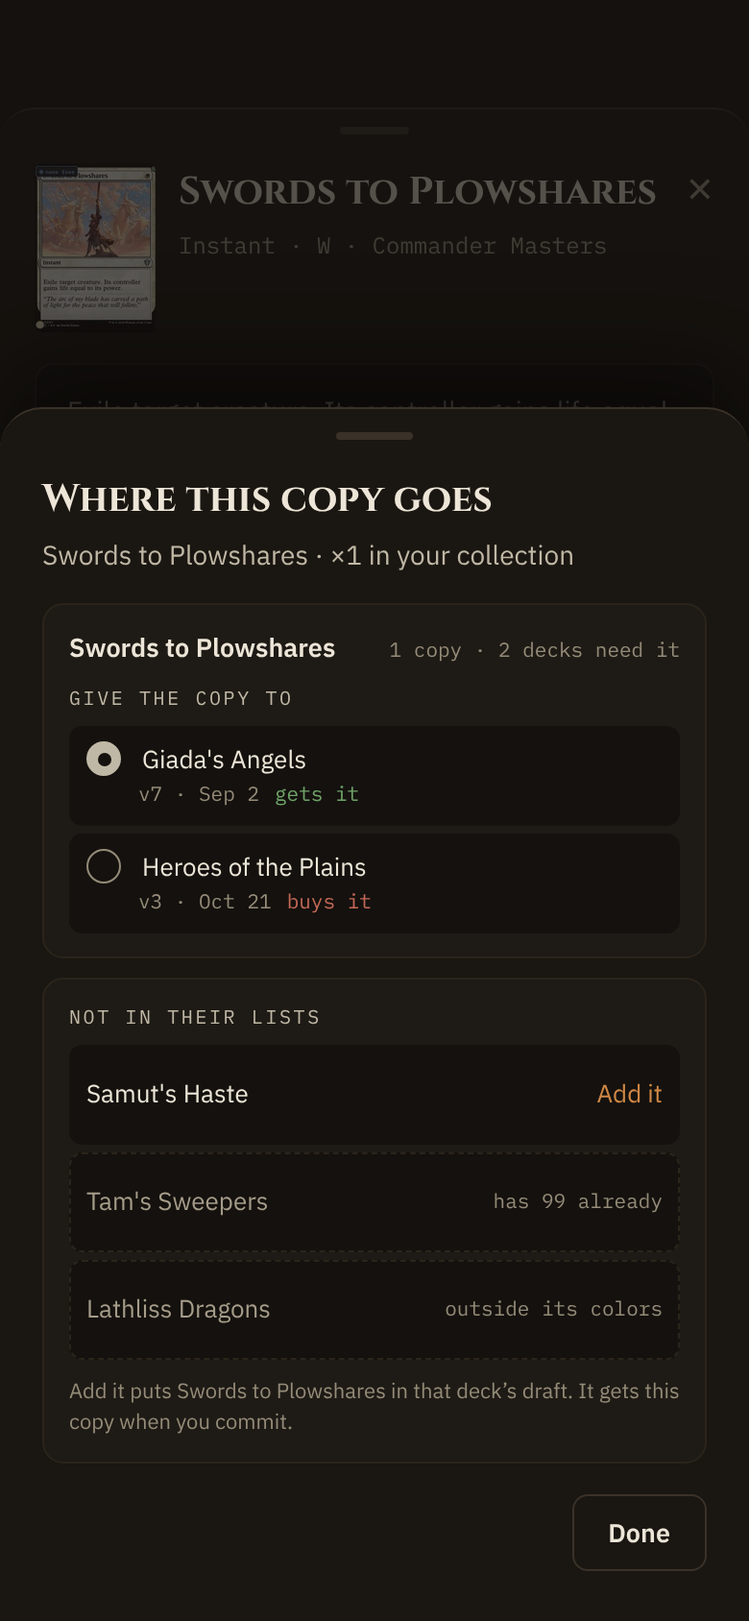
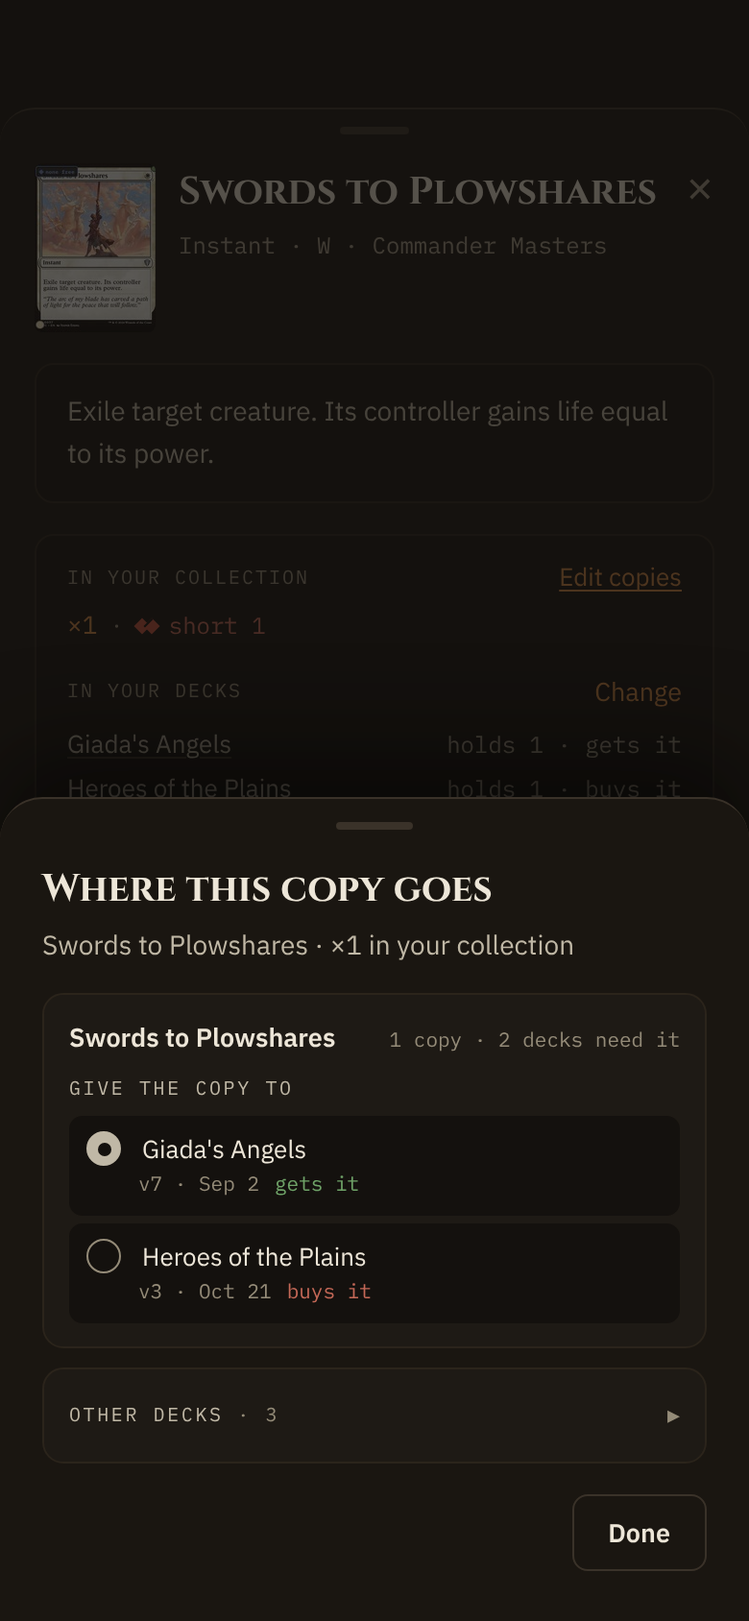
account-2 2026-11-18: move a copy later R1b (#2980): Other decks disclosure, compatible decks only, multi-deck/copy and many-deck frames
Claude-Session: https://claude.ai/code/session_01UvpaAYmrFDCvxrG3U4SH2K

diff --git a/account-2/design_handoff_the99_move_copy/scratch-gen/render.tsx b/account-2/design_handoff_the99_move_copy/scratch-gen/render.tsx
@@ -2,6 +2,7 @@
 import { renderToString } from "react-dom/server";
 import { writeFileSync, mkdirSync } from "node:fs";
 import type { ReactNode } from "react";
+import * as React from "react";
 import { NavRail, TabBar, MobileHeader } from "../src/components/shell/nav";
 import { AvailabilityDetail } from "../src/components/cards/card-detail-blocks";
 import { CopyChooserDialog } from "../src/components/decks/copy-chooser-dialog";
@@ -19,24 +20,38 @@ const card: any = {
   availability: { owned: 1, hard: 2, soft: 0, free: -1, claims: [claim(G, D("2026-09-02"), 7), claim(H, D("2026-10-21"), 3)] },
   draftWants: [],
 };
-const contested = (pick: string | null): any => pick === "ds" ? ({
-  oracleId: "o-swords", cardName: NAME, arrived: 1, fromImport: false, ownedBefore: 1, owned: 1,
-  claimants: [
-    { deckId: G.id, deckName: G.name, quantity: 1, commanderCopies: 0, granted: 0, since: D("2026-09-02"), versionNumber: 7, allocated: 0 },
-    { deckId: H.id, deckName: H.name, quantity: 1, commanderCopies: 0, granted: 0, since: D("2026-10-21"), versionNumber: 3, allocated: 0 },
-  ],
-}) : ({
-  oracleId: "o-swords", cardName: NAME, arrived: 1, fromImport: false, ownedBefore: 1, owned: 1,
-  claimants: [
-    { deckId: G.id, deckName: G.name, quantity: 1, commanderCopies: 0, granted: 0, since: D("2026-09-02"), versionNumber: 7, allocated: pick === H.id ? 0 : 1 },
-    { deckId: H.id, deckName: H.name, quantity: 1, commanderCopies: 0, granted: pick === H.id ? 1 : 0, grantedAt: pick ? NOW : null, since: D("2026-10-21"), versionNumber: 3, allocated: pick === H.id ? 1 : 0 },
-  ],
+// claimants in commit order; alloc = deck ids that get a copy.
+const DK = { g: G, h: H, a: { id: "da", name: "Ajani's Pride" } } as const;
+const CL: Record<string, [number, number]> = { dg: [D("2026-09-02"), 7], dh: [D("2026-10-21"), 3], da: [D("2026-11-03"), 2] };
+const contested = (owned: number, ids: string[], alloc: string[], picked: string[] = []): any => ({
+  oracleId: "o-swords", cardName: NAME, arrived: owned, fromImport: false, ownedBefore: owned, owned,
+  claimants: ids.map((id) => { const d = Object.values(DK).find((x) => x.id === id)!; return {
+    deckId: id, deckName: d.name, quantity: 1, commanderCopies: 0, granted: picked.includes(id) ? 1 : 0, grantedAt: picked.includes(id) ? NOW : null,
+    since: CL[id][0], versionNumber: CL[id][1], allocated: alloc.includes(id) ? 1 : 0 }; }),
 });
-const others = (added: boolean): OtherDeck[] => [
-  { id: "ds", name: "Samut's Haste", state: added ? "added" : "can" },
-  { id: "dt", name: "Tam's Sweepers", state: "full" },
-  { id: "dl", name: "Lathliss Dragons", state: "colors" },
+const OTHER = (pick?: string): OtherDeck[] => [
+  { id: "ds", name: "Samut's Haste", cards: 96 }, { id: "dt", name: "Tam's Sweepers", cards: 99 }, { id: "dq", name: "Quintorius Digs", cards: 84 },
+].map((d) => ({ ...d, picked: d.id === pick }));
+const MANY: OtherDeck[] = ["Samut's Haste:96", "Tam's Sweepers:99", "Quintorius Digs:84", "Sai's Thopters:100", "Zada Copies:91", "Killian Ink:97",
+  "Heliod Lifegain:99", "Kenrith Group Hug:88", "Atraxa Counters:100", "Ghired Tokens:95", "Rhys Elves:92", "Winota Knights:98"]
+  .map((x, i) => { const [name, n] = x.split(":"); return { id: "m" + i, name, cards: +n }; });
+const chooser = (c: any, other: React.ReactNode, sub = `${NAME} · ×${c.owned} in your collection`, extra = 0) => (
+  <CopyChooserDialog extraGiven={extra} card={c} cardName={NAME} thisDeckId="" sub={sub} onCard={() => {}} onClose={() => {}}>{other}</CopyChooserDialog>
+);
+const od = (decks: OtherDeck[], open: boolean, copies = 1, find?: string) => <OtherDecks decks={decks} cardName={NAME} open={open} copies={copies} find={find} hiddenColors={2} />;
+const entry = (id: string, iso: string, first: string, went: any, kind: any = "add"): any => ({
+  id, seq: 1, createdAt: new Date(iso), kind, source: null, raised: 1, lowered: 0, rowCount: 1, copiesUp: 1, copiesDown: 0, removesOnly: false,
+  revertsId: null, revertedBy: null, revertsVisible: true, revertedByVisible: true, uploadFilename: null, firstName: first,
+  shoppingDeck: null, shoppingCart: false, preconName: null, addedFromDeck: null, cartDecks: null, wentTo: went,
+});
+const went = (d: { id: string; name: string }, proposal: any) => ({ decks: { named: [d], more: 0, gone: 0 }, soft: false, proposal });
+const ENTRIES = (moved: boolean) => [
+  entry("e1", "2026-11-17T22:10:00Z", "Lightning Greaves", went({ id: "dl", name: "Lathliss Dragons" }, {})),
+  entry("e2", "2026-11-17T19:42:00Z", NAME, went(G, moved ? { now: H.name, change: true } : { change: true })),
+  entry("e3", "2026-11-16T16:05:00Z", "Arcane Signet", went({ id: "dt", name: "Tam's Sweepers" }, {})),
 ];
+const history = (moved: boolean) => <HistoryList initial={ENTRIES(moved)} nextBefore={null} nowMs={NOW} reachesBack={new Date(NOW - 90 * 864e5)} reachesBackLabel="Aug 20" shipLabel="Aug 1" />;
+const two = ["dg", "dh"], three = ["dg", "dh", "da"];
 
 type Dev = "phone" | "desk";
 const frames: { id: string; dev: Dev; vh?: number }[] = [];
@@ -81,32 +96,23 @@ function detailsSheet(cardProp: any) {
     </div>
   );
 }
-const chooser = (pick: string | null, added: boolean) => (
-  <CopyChooserDialog card={contested(pick)} cardName={NAME} thisDeckId="" sub={`${NAME} · ×1 in your collection`} onCard={() => {}} onClose={() => {}}>
-    <OtherDecks decks={others(added)} cardName={NAME} />
-  </CopyChooserDialog>
-);
-const entry = (id: string, iso: string, first: string, went: any, kind: any = "add"): any => ({
-  id, seq: 1, createdAt: new Date(iso), kind, source: null, raised: 1, lowered: 0, rowCount: 1, copiesUp: 1, copiesDown: 0, removesOnly: false,
-  revertsId: null, revertedBy: null, revertsVisible: true, revertedByVisible: true, uploadFilename: null, firstName: first,
-  shoppingDeck: null, shoppingCart: false, preconName: null, addedFromDeck: null, cartDecks: null, wentTo: went,
-});
-const went = (d: { id: string; name: string }, proposal: any) => ({ decks: { named: [d], more: 0, gone: 0 }, soft: false, proposal });
-const ENTRIES = (moved: boolean) => [
-  entry("e1", "2026-11-17T22:10:00Z", "Lightning Greaves", went({ id: "dl", name: "Lathliss Dragons" }, {})),
-  entry("e2", "2026-11-17T19:42:00Z", NAME, went(G, moved ? { now: H.name, change: true } : { change: true })),
-  entry("e3", "2026-11-16T16:05:00Z", "Arcane Signet", went({ id: "dt", name: "Tam's Sweepers" }, {})),
-];
-const history = (moved: boolean) => <HistoryList initial={ENTRIES(moved)} nextBefore={null} nowMs={NOW} reachesBack={new Date(NOW - 90 * 864e5)} reachesBackLabel="Aug 20" shipLabel="Aug 1" />;
 
+const sheet = (x: React.ReactNode) => <>{detailsSheet(card)}{x}</>;
 emit("C1-phone", "phone", detailsSheet(card), 844);
-emit("C2-phone", "phone", <>{detailsSheet(card)}{chooser(null, false)}</>, 844);
-emit("C3-phone", "phone", <>{detailsSheet(card)}{chooser(H.id, false)}</>, 844);
-emit("C4-phone", "phone", <>{detailsSheet(card)}{chooser("ds", true)}</>, 844);
+emit("C2-phone", "phone", sheet(chooser(contested(1, two, ["dg"]), od(OTHER(), false))), 844);
+emit("C3-phone", "phone", sheet(chooser(contested(1, two, ["dh"], ["dh"]), od(OTHER(), false))), 844);
+emit("O1-phone", "phone", sheet(chooser(contested(1, two, ["dg"]), od(OTHER(), true))), 900);
+emit("O2-phone", "phone", sheet(chooser(contested(1, two, []), od(OTHER("dt"), true))), 900);
+emit("O3-phone", "phone", sheet(chooser(contested(1, two, []), od(OTHER("dt"), false))), 844);
+emit("M1-phone", "phone", sheet(chooser(contested(1, three, ["dg"]), od(OTHER(), false))), 844);
+emit("M2-phone", "phone", sheet(chooser(contested(2, three, ["dg", "da"], ["da"]), od(OTHER(), false))), 844);
+emit("M3-phone", "phone", sheet(chooser(contested(2, three, ["dg"]), od(OTHER("ds"), true, 2), undefined, 1)), 960);
+emit("F1-phone", "phone", sheet(chooser(contested(1, two, ["dg"]), od(MANY, true))), 960);
+emit("F2-phone", "phone", sheet(chooser(contested(1, two, ["dg"]), od(MANY, true, 1, "he"))), 900);
 emit("H1-phone", "phone", shell("/collection", history(false)), 760);
-emit("H2-phone", "phone", <>{shell("/collection", history(false))}{chooser(null, false)}</>, 844);
+emit("H2-phone", "phone", <>{shell("/collection", history(false))}{chooser(contested(1, two, ["dg"]), od(OTHER(), false))}</>, 844);
 emit("H3-phone", "phone", shell("/collection", history(true)), 760);
-emit("H1-desk", "desk", <>{shell("/collection", history(false))}{chooser(null, false)}</>, 860);
+emit("H1-desk", "desk", <>{shell("/collection", history(false))}{chooser(contested(1, two, ["dg"]), od(OTHER(), true))}</>, 900);
 emit("H3-desk", "desk", shell("/collection", history(true)), 640);
 writeFileSync("dz/frames.json", JSON.stringify(frames));
 console.log("ok", frames.length);

diff --git a/account-2/design_handoff_the99_move_copy/Main.dc.html b/account-2/design_handoff_the99_move_copy/Main.dc.html
@@ -31,23 +31,26 @@ p{margin:0}
 <p class="lab"><b>Calls</b></p>
 <div class="it"><span class="n">1</span><p><b>Card details: “Change” at the end of the In your decks heading</b> (C1), only when you own the card and no copy is free, so some deck is buying it or every copy is held. With a copy to spare there is nothing to move, so no Change. It opens the shipped chooser over card details: sheet on a phone, 520 modal on desktop.</p></div>
 <div class="it"><span class="n">2</span><p><b>The chooser is the shipped one</b>, title “Where this copy goes”, sub “Swords to Plowshares · ×1 in your collection” (C2). Deck names are the control, gets it / buys it, tap the pick again to go back to first committed (C3). It writes the reservation (assignCopyFor) and changes no deck list or version; every claimant’s marks and buy state update.</p></div>
-<div class="it"><span class="n">3</span><p><b>Decks that don’t list it, under “Not in their lists”</b>. One that can take it offers <b>Add it</b>: the card goes into that deck’s draft and the pick is kept for its commit (C4, Undo in the foot line). One that can’t says why in its row, never hidden: <b>has 99 already</b>, <b>outside its colors</b>, <b>its commander</b>.</p></div>
+<div class="it"><span class="n">3</span><p><b>R1b · “Other decks · N”, closed by default</b> under the decks that list it (O). One row that opens in place, however many decks. Open, it lists <b>only decks whose colors allow the card</b>, in the same rows as above: the mark, the deck, its card count, <b>adds it</b>. A deck at 99 or more is still offered and says so (“99 cards · makes 100”). Decks outside its colors are left out, with one faint line saying so.</p></div>
+<div class="it"><span class="n">3b</span><p><b>One choice across both groups.</b> Picking another deck works like picking above: accent row, “adds it · gets it”, and the decks above flip to buys it. The card goes into that deck’s draft and gets the copy when you commit. Tap again to undo. Closed, the header names the pick (O3). With more than 6 decks, a <b>Find a deck</b> field tops the open list (F1, F2).</p></div>
+<div class="it"><span class="n">3c</span><p><b>More decks than copies</b> (M) is the shipped row’s own case: one copy uses round marks, two copies use square marks with “2 of 2 given”. A pick in Other decks counts toward that cap (M3).</p></div>
 <div class="it"><span class="n">4</span><p><b>History: “Change” at the end of an add’s “Went to …” line</b>, same rule as call 1, opening the same chooser (H1, H2). The record is never rewritten: after a move the line reads “Went to Giada’s Angels. Now Heroes of the Plains has it.” (H3). In an opened multi-card entry, each row’s line gets its own Change (not drawn).</p></div>
 <div class="it"><span class="n">5</span><p><b>Matches the removal chooser</b> (approved R1): the same row grammar (round mark, neutral default, accent pick, Back to first committed) and the same rule that a deck that can’t do something says why in its row.</p></div>
 </div>
 <div style="display: flex; flex-direction: column; gap: 24px">
 <div class="box">
-<p class="lab"><b>For Hugh</b> · three questions</p>
-<div class="it"><span class="n">Q1</span><p><b>Decks that don’t list the card?</b> <b>Recommended: Add it</b>, into the draft with the pick kept for commit (call 3). Other option: name them with “not in its list” and no action; you add it from the deck, then come back.</p></div>
-<div class="it"><span class="n">Q2</span><p><b>Decks outside its colors?</b> <b>Recommended:</b> a row each up to two, then one faint line “4 more decks are outside its colors.” Other option: a row each always.</p></div>
-<div class="it"><span class="n">Q3</span><p><b>Your Fabled Passage:</b> did Mutant Menace already list it when you added it? If yes, calls 1 and 4 fix it. If no, call 3 does.</p></div>
+<p class="lab"><b>R1b</b> · Hugh’s feedback, 2026-11-17</p>
+<div class="it"><span class="n">B1</span><p>Top section kept. “Not in their lists” is now <b>Other decks</b>, a disclosure, in the top section’s row grammar.</p></div>
+<div class="it"><span class="n">B2</span><p><b>Only compatible decks are shown.</b> Decks outside its colors are never an option. Decks at 99 or over stay offered.</p></div>
+<div class="it"><span class="n">B3</span><p>The disclosure holds up past 1 card and 2 decks: 3 decks with 1 copy (M1), 3 decks with 2 copies (M2, M3), 12 other decks with Find (F1, F2).</p></div>
+<div class="it"><span class="n">Q</span><p><b>One question:</b> did Mutant Menace already list Fabled Passage when you added it? It doesn’t change the design, only which door fixes your copy.</p></div>
 </div>
 <div class="box">
 <p class="lab"><b>Gaps</b> · for the build</p>
-<div class="it"><span class="n">G1</span><p>Card details needs the chooser’s card off a receipt (<b>loadContestedCard</b> has the shape) plus the player’s other committed decks with their reason (color identity, 99 count, commander). New read.</p></div>
-<div class="it"><span class="n">G2</span><p><b>A kept pick for a draft add</b> has nowhere to live today (assignments need a committed version). A pending pick applied at commit, or drop the promise if Q1 goes the other way.</p></div>
+<div class="it"><span class="n">G1</span><p>Card details needs the chooser’s card off a receipt (<b>loadContestedCard</b> has the shape) plus the player’s other committed decks whose color identity allows the card, with each deck’s card count. New read.</p></div>
+<div class="it"><span class="n">G2</span><p><b>A kept pick for a draft add</b> has nowhere to live today (assignments need a committed version). It needs a pending pick applied at commit. One choice spans both groups, and an Other decks pick counts toward the row’s cap.</p></div>
 <div class="it"><span class="n">G3</span><p>History’s “Went to” is frozen at arrival; “Now X has it.” and Change need a live read per entry, only for entries whose card still has a choice.</p></div>
-<div class="it"><span class="n">G4</span><p>All new strings are DRAFT for /copy-review: Change’s sub, Not in their lists, Add it, in the draft · gets it on commit, has 99 already, outside its colors, its commander, the foot lines, Now X has it.</p></div>
+<div class="it"><span class="n">G4</span><p>All new strings are DRAFT for /copy-review: Change’s sub, Other decks · N, N cards · makes N+1, adds it, adds it · gets it, Find a deck, the two foot lines, Now X has it. With 2+ copies the shipped title “Where this copy goes” wants a plural.</p></div>
 <div class="it"><span class="n">G5</span><p>Amends the card assignments handoff, which limits the chooser to /changes and receipts.</p></div>
 </div>
 </div>

diff --git a/account-2/design_handoff_the99_move_copy/Details.dc.html b/account-2/design_handoff_the99_move_copy/Details.dc.html
@@ -20,21 +20,20 @@ p{margin:0}
 .shot{display:block;width:100%;border-radius:14px;border:1px solid #3A3229}
 </style>
 </helmet>
-<div style="width: 1882px; min-height: 1180px; box-sizing: border-box; padding: 48px 56px 64px; background: #0D0B09; font-family: 'IBM Plex Sans', sans-serif; color: #EDE6D8; display: flex; flex-direction: column; gap: 30px">
-<div style="display: flex; flex-direction: column; gap: 9px; max-width: 1300px">
+<div style="width: 1362px; min-height: 1180px; box-sizing: border-box; padding: 48px 56px 64px; background: #0D0B09; font-family: 'IBM Plex Sans', sans-serif; color: #EDE6D8; display: flex; flex-direction: column; gap: 30px">
+<div style="display: flex; flex-direction: column; gap: 9px; max-width: 1200px">
 <p class="lab"><b>C</b> · card details · 390</p>
 <h2 style="margin: 0; font: 700 30px 'Cinzel', serif">Change where a copy goes, from the card</h2>
-<p style="font-size: 14px; line-height: 1.6; color: #C0B8A6">The sheet pulled full, scrolled to the receipt. The card image and text above are the shipped sheet’s; the In your decks block is the shipped AvailabilityDetail with Change added.</p>
+<p style="font-size: 14px; line-height: 1.6; color: #C0B8A6">The sheet pulled full, scrolled to the receipt. The In your decks block is the shipped AvailabilityDetail with Change added; the chooser is the shipped sheet.</p>
 </div>
 <div style="display: flex; gap: 40px; align-items: flex-start">
 <div class="ph"><p class="lab"><b>C1</b> · the door</p><img class="shot" src="art/C1-phone.png" alt="Card details, In your decks with Change"><p class="cap"><b>Change</b> sits at the end of the In your decks heading, only while no copy is free. Deck names stay links to the deck.</p></div>
-<div class="ph"><p class="lab"><b>C2</b> · the chooser</p><img class="shot" src="art/C2-phone.png" alt="Where this copy goes, default"><p class="cap">The shipped chooser sheet over card details. The first committed deck gets it by default. Below, the decks that <b>don’t list it</b>, each with Add it or the reason it can’t.</p></div>
-<div class="ph"><p class="lab"><b>C3</b> · picked</p><img class="shot" src="art/C3-phone.png" alt="Heroes of the Plains picked"><p class="cap">A tap gives the copy to Heroes of the Plains: accent row, <b>gets it</b> and <b>buys it</b> swap at once. Tap it again to go back. No list or version changes.</p></div>
-<div class="ph"><p class="lab"><b>C4</b> · added to another deck</p><img class="shot" src="art/C4-phone.png" alt="Added to Samut's Haste"><p class="cap"><b>Add it</b> puts the card in Samut’s Haste’s draft and keeps the pick for its commit, so both listing decks now buy it. <b>Undo</b> in the foot line (Q1).</p></div>
+<div class="ph"><p class="lab"><b>C2</b> · the chooser</p><img class="shot" src="art/C2-phone.png" alt="Where this copy goes, default"><p class="cap">The shipped chooser. The first committed deck gets it by default. <b>Other decks · 3</b> waits closed underneath.</p></div>
+<div class="ph"><p class="lab"><b>C3</b> · picked</p><img class="shot" src="art/C3-phone.png" alt="Heroes of the Plains picked"><p class="cap">A tap gives the copy to Heroes of the Plains: accent row, <b>gets it</b> and <b>buys it</b> swap at once. Tap again to go back. No list or version changes.</p></div>
 </div>
 </div>
 </x-dc>
-<script type="text/x-dc" data-dc-script data-props='{"$preview":{"width":1882,"height":1180}}'>
+<script type="text/x-dc" data-dc-script data-props='{"$preview":{"width":1362,"height":1180}}'>
 class Component extends DCLogic {
 renderVals() { return {}; }
 }

diff --git a/account-2/design_handoff_the99_move_copy/Other.dc.html b/account-2/design_handoff_the99_move_copy/Other.dc.html
@@ -1,0 +1,44 @@
+<!doctype html>
+<html lang="en">
+<head>
+<meta charset="utf-8">
+<title>Other decks</title>
+<script src="./support.js"></script>
+</head>
+<body>
+<x-dc>
+<helmet>
+<link href="https://fonts.googleapis.com/css2?family=IBM+Plex+Sans:wght@400;500;600;700&amp;family=IBM+Plex+Mono:wght@400;500;600&amp;family=Cinzel:wght@600;700;800&amp;display=swap" rel="stylesheet">
+<style>
+body{margin:0;background:#0D0B09}
+p{margin:0}
+.lab{font:500 10.5px 'IBM Plex Mono',monospace;letter-spacing:.12em;text-transform:uppercase;color:#948B78}
+.lab b{color:#CF8745;font-weight:600}
+.cap{font-size:13px;line-height:1.55;color:#A59C89}
+.cap b{color:#EDE6D8;font-weight:600}
+.ph{display:flex;flex-direction:column;gap:10px;width:390px;flex:none}
+.shot{display:block;width:100%;border-radius:14px;border:1px solid #3A3229}
+</style>
+</helmet>
+<div style="width: 2222px; min-height: 1300px; box-sizing: border-box; padding: 48px 56px 64px; background: #0D0B09; font-family: 'IBM Plex Sans', sans-serif; color: #EDE6D8; display: flex; flex-direction: column; gap: 30px">
+<div style="display: flex; flex-direction: column; gap: 9px; max-width: 1300px">
+<p class="lab"><b>O</b> · other decks · 390</p>
+<h2 style="margin: 0; font: 700 30px 'Cinzel', serif">Other decks: compatible only, picked like the decks above</h2>
+<p style="font-size: 14px; line-height: 1.6; color: #C0B8A6">One disclosure row under the shipped chooser row. Open, its rows are the same options as above. Decks outside the card’s colors are never listed; decks at 99 or more are.</p>
+</div>
+<div style="display: flex; gap: 40px; align-items: flex-start">
+<div class="ph"><p class="lab"><b>O1</b> · open</p><img class="shot" src="art/O1-phone.png" alt="Other decks open"><p class="cap">Each deck shows its card count and <b>adds it</b>. Tam’s Sweepers at 99 stays an option and says <b>makes 100</b>. The foot line says what a pick does and that decks outside its colors aren’t listed.</p></div>
+<div class="ph"><p class="lab"><b>O2</b> · picked</p><img class="shot" src="art/O2-phone.png" alt="Tam's Sweepers picked"><p class="cap">Same tap as above: accent row, <b>adds it · gets it</b>, and both listing decks now buy it. It goes into the draft and gets the copy on commit. Tap again to undo.</p></div>
+<div class="ph"><p class="lab"><b>O3</b> · closed with a pick</p><img class="shot" src="art/O3-phone.png" alt="Other decks closed, naming the pick"><p class="cap">Closed again, the header names the pick in accent, so the choice is never hidden.</p></div>
+<div class="ph"><p class="lab"><b>F1</b> · many decks</p><img class="shot" src="art/F1-phone.png" alt="Twelve other decks with Find"><p class="cap">Past 6 decks, a <b>Find a deck</b> field (the shipped SearchField) tops the list. The list scrolls inside the chooser; the title and Done stay put.</p></div>
+<div class="ph"><p class="lab"><b>F2</b> · found</p><img class="shot" src="art/F2-phone.png" alt="Filtered to Heliod Lifegain"><p class="cap">Typing narrows it by name. A pick stays picked while it is filtered out.</p></div>
+</div>
+</div>
+</x-dc>
+<script type="text/x-dc" data-dc-script data-props='{"$preview":{"width":2222,"height":1300}}'>
+class Component extends DCLogic {
+renderVals() { return {}; }
+}
+</script>
+</body>
+</html>

diff --git a/account-2/design_handoff_the99_move_copy/Scenarios.dc.html b/account-2/design_handoff_the99_move_copy/Scenarios.dc.html
@@ -1,0 +1,42 @@
+<!doctype html>
+<html lang="en">
+<head>
+<meta charset="utf-8">
+<title>More decks than copies</title>
+<script src="./support.js"></script>
+</head>
+<body>
+<x-dc>
+<helmet>
+<link href="https://fonts.googleapis.com/css2?family=IBM+Plex+Sans:wght@400;500;600;700&amp;family=IBM+Plex+Mono:wght@400;500;600&amp;family=Cinzel:wght@600;700;800&amp;display=swap" rel="stylesheet">
+<style>
+body{margin:0;background:#0D0B09}
+p{margin:0}
+.lab{font:500 10.5px 'IBM Plex Mono',monospace;letter-spacing:.12em;text-transform:uppercase;color:#948B78}
+.lab b{color:#CF8745;font-weight:600}
+.cap{font-size:13px;line-height:1.55;color:#A59C89}
+.cap b{color:#EDE6D8;font-weight:600}
+.ph{display:flex;flex-direction:column;gap:10px;width:390px;flex:none}
+.shot{display:block;width:100%;border-radius:14px;border:1px solid #3A3229}
+</style>
+</helmet>
+<div style="width: 1362px; min-height: 1180px; box-sizing: border-box; padding: 48px 56px 64px; background: #0D0B09; font-family: 'IBM Plex Sans', sans-serif; color: #EDE6D8; display: flex; flex-direction: column; gap: 30px">
+<div style="display: flex; flex-direction: column; gap: 9px; max-width: 1200px">
+<p class="lab"><b>M</b> · more decks than copies · 390</p>
+<h2 style="margin: 0; font: 700 30px 'Cinzel', serif">Three decks, one or two copies</h2>
+<p style="font-size: 14px; line-height: 1.6; color: #C0B8A6">The top section is the shipped row, which already handles any number of decks and copies. Other decks joins the same count.</p>
+</div>
+<div style="display: flex; gap: 40px; align-items: flex-start">
+<div class="ph"><p class="lab"><b>M1</b> · 3 decks, 1 copy</p><img class="shot" src="art/M1-phone.png" alt="Three decks, one copy"><p class="cap">Round marks: one copy, one pick. The first committed deck gets it; the other two buy it.</p></div>
+<div class="ph"><p class="lab"><b>M2</b> · 3 decks, 2 copies</p><img class="shot" src="art/M2-phone.png" alt="Three decks, two copies"><p class="cap">Square marks and <b>2 of 2 given</b>. Here Ajani’s Pride was picked over Heroes of the Plains. When both are given, a third tap gets the shipped “untick one first” reason.</p></div>
+<div class="ph"><p class="lab"><b>M3</b> · one goes to another deck</p><img class="shot" src="art/M3-phone.png" alt="Two copies, one to Samut's Haste"><p class="cap">A pick in Other decks <b>counts toward the cap</b>: Giada’s Angels and Samut’s Haste, 2 of 2 given.</p></div>
+</div>
+</div>
+</x-dc>
+<script type="text/x-dc" data-dc-script data-props='{"$preview":{"width":1362,"height":1180}}'>
+class Component extends DCLogic {
+renderVals() { return {}; }
+}
+</script>
+</body>
+</html>

diff --git a/account-2/design_handoff_the99_move_copy/Desktop.dc.html b/account-2/design_handoff_the99_move_copy/Desktop.dc.html
@@ -19,17 +19,17 @@ p{margin:0}
 .shot{display:block;width:1100px;border-radius:14px;border:1px solid #3A3229}
 </style>
 </helmet>
-<div style="width: 1452px; min-height: 1640px; box-sizing: border-box; padding: 48px 56px 64px; background: #0D0B09; font-family: 'IBM Plex Sans', sans-serif; color: #EDE6D8; display: flex; flex-direction: column; gap: 26px">
+<div style="width: 1452px; min-height: 1720px; box-sizing: border-box; padding: 48px 56px 64px; background: #0D0B09; font-family: 'IBM Plex Sans', sans-serif; color: #EDE6D8; display: flex; flex-direction: column; gap: 26px">
 <div style="display: flex; flex-direction: column; gap: 9px; max-width: 1200px">
 <p class="lab"><b>D</b> · 1280</p>
 <h2 style="margin: 0; font: 700 30px 'Cinzel', serif">The same chooser, as the shipped 520 modal</h2>
 <p style="font-size: 14px; line-height: 1.6; color: #C0B8A6">Card details on desktop opens the same modal over its own dialog. Rows go one line wide, as they ship.</p>
 </div>
-<div style="display: flex; flex-direction: column; gap: 10px"><p class="lab"><b>D1</b> · History, chooser open</p><img class="shot" src="art/H1-desk.png" alt="Desktop History with the chooser modal open"><p class="cap">The shipped modal from History’s Change. <b>Not in their lists</b> sits under the shipped row in the same scroller; Done stays in view.</p></div>
+<div style="display: flex; flex-direction: column; gap: 10px"><p class="lab"><b>D1</b> · History, chooser open</p><img class="shot" src="art/H1-desk.png" alt="Desktop History with the chooser modal open"><p class="cap">The shipped modal from History’s Change. <b>Other decks</b>, open here, sits under the shipped row in the same scroller; Done stays in view.</p></div>
 <div style="display: flex; flex-direction: column; gap: 10px"><p class="lab"><b>D2</b> · History, after a move</p><img class="shot" src="art/H3-desk.png" alt="Desktop History after a move"><p class="cap">Change at the line’s end, under Revert. The record line keeps “Went to Giada’s Angels.” and says who has it now.</p></div>
 </div>
 </x-dc>
-<script type="text/x-dc" data-dc-script data-props='{"$preview":{"width":1452,"height":1640}}'>
+<script type="text/x-dc" data-dc-script data-props='{"$preview":{"width":1452,"height":1720}}'>
 class Component extends DCLogic {
 renderVals() { return {}; }
 }

diff --git a/account-2/design_handoff_the99_move_copy/README.md b/account-2/design_handoff_the99_move_copy/README.md
@@ -1,7 +1,7 @@
-# The 99 · Move a copy to another deck later (R1, DRAFT)
+# The 99 · Move a copy to another deck later (R1b, DRAFT)
 
 Issue: featherweight-design/the-99 #2980. Account 2, 2026-11-18. Status: awaiting Hugh's review. No handoff PR until approved.
-Canvas: https://claude.ai/artifact/PXKbecyqx4VGUr9FwZxn2Q (boards Main, Details, History, Desktop; frames in art/).
+Canvas: https://claude.ai/artifact/PXKbecyqx4VGUr9FwZxn2Q (boards Main, Details, Scenarios, Other, History, Desktop; frames in art/).
 Every frame is the shipped component SSR'd from main with shipped CSS (amonkhet), proposal applied (scratch-gen/proposal.diff).
 
 ## Calls
@@ -10,21 +10,25 @@ Every frame is the shipped component SSR'd from main with shipped CSS (amonkhet)
    Sub: `<card> · ×N in your collection`.
 2. **The chooser is unchanged**: `ContestedCardRow`, deck names are the control, gets it / buys it, tap again = Back to first committed.
    Writes `assignCopyFor` (one `card_assignments` row), no list/version change, `revalidateClaims`.
-3. **Not in their lists** (new group under the row, same scroller): the player's committed decks that do not list the card.
-   - can take it: `Add it` → card into that deck's draft + a pick kept for its commit (`in the draft · gets it on commit`, accent row; foot line with Undo).
-   - can't: dashed row, faint reason: `has 99 already`, `outside its colors`, `its commander`. Never hidden.
+3. **Other decks · N** (R1b, Hugh 2026-11-17): a disclosure under the shipped row, closed by default; closed with a pick, its header names it in accent.
+   Open: only committed decks that don't list the card AND whose color identity allows it (outside its colors = never an option; one faint
+   foot line says they aren't listed). Decks at 99+ are offered: `99 cards · makes 100` in --avail-over-fg. Rows are the shipped options
+   (AllocationMark, name, `N cards`, `adds it`). One choice spans both groups: a pick is accent + `adds it · gets it`, the listing decks
+   flip to buys it, the card goes into that deck's draft and gets the copy on commit; tap again undoes. A pick counts toward the row's cap.
+   More than 6 decks: shipped SearchField `Find a deck` tops the list; it scrolls inside the chooser.
 4. **History door.** `Change` at the end of an add's `Went to …` line (same rule as 1), opens the same chooser. The record never changes;
    after a move: `Went to A. Now B has it.` Opened multi-card entries: each row line gets its own Change (not drawn).
 5. Grammar matches the removal chooser (design_handoff_the99_collection_edit/addendum-removal-chooser).
 
-## Questions for Hugh
-- Q1 decks that don't list it: **rec. Add it** (draft + kept pick). Alt: name them `not in its list`, no action.
-- Q2 outside its colors: **rec. a row each up to two, then one line** `N more decks are outside its colors.` Alt: always a row each.
-- Q3 repro: did Mutant Menace already list Fabled Passage? Yes → calls 1/4 fix it; no → call 3.
+## R1b scenarios
+M1 3 decks/1 copy, M2 3 decks/2 copies (2 of 2 given), M3 one copy to an Other deck (counts toward the cap), F1/F2 12 other decks + Find.
+
+## Question for Hugh
+Did Mutant Menace already list Fabled Passage? Doesn't change the design, only which door fixes the copy.
 
 ## Gaps
-- G1 card details needs the contested card off a receipt (`loadContestedCard`) plus other committed decks with reason (color identity, 99 count, commander).
-- G2 a kept pick for a draft add has no home (assignments need a committed version): pending pick applied at commit, or drop it per Q1.
+- G1 card details needs the contested card off a receipt (`loadContestedCard`) plus other committed decks whose color identity allows the card, with card counts.
+- G2 a kept pick for a draft add has no home (assignments need a committed version): pending pick applied at commit; one choice across both groups; counts toward the cap (extraGiven in proposal.diff).
 - G3 History `wentTo` is frozen at arrival; `Now X has it.` and Change need a live read per entry (only entries with a choice).
-- G4 strings DRAFT for /copy-review (Change sub, Not in their lists, Add it, in the draft · gets it on commit, has 99 already, outside its colors, its commander, foot lines, Now X has it.). No `claim` in any string.
+- G4 strings DRAFT for /copy-review (Change sub, Other decks · N, N cards · makes N+1, adds it, adds it · gets it, Find a deck, foot lines, Now X has it; plural title for 2+ copies). No `claim` in any string.
 - G5 amends design_handoff_the99_card_assignments (chooser limited to /changes + receipts).
